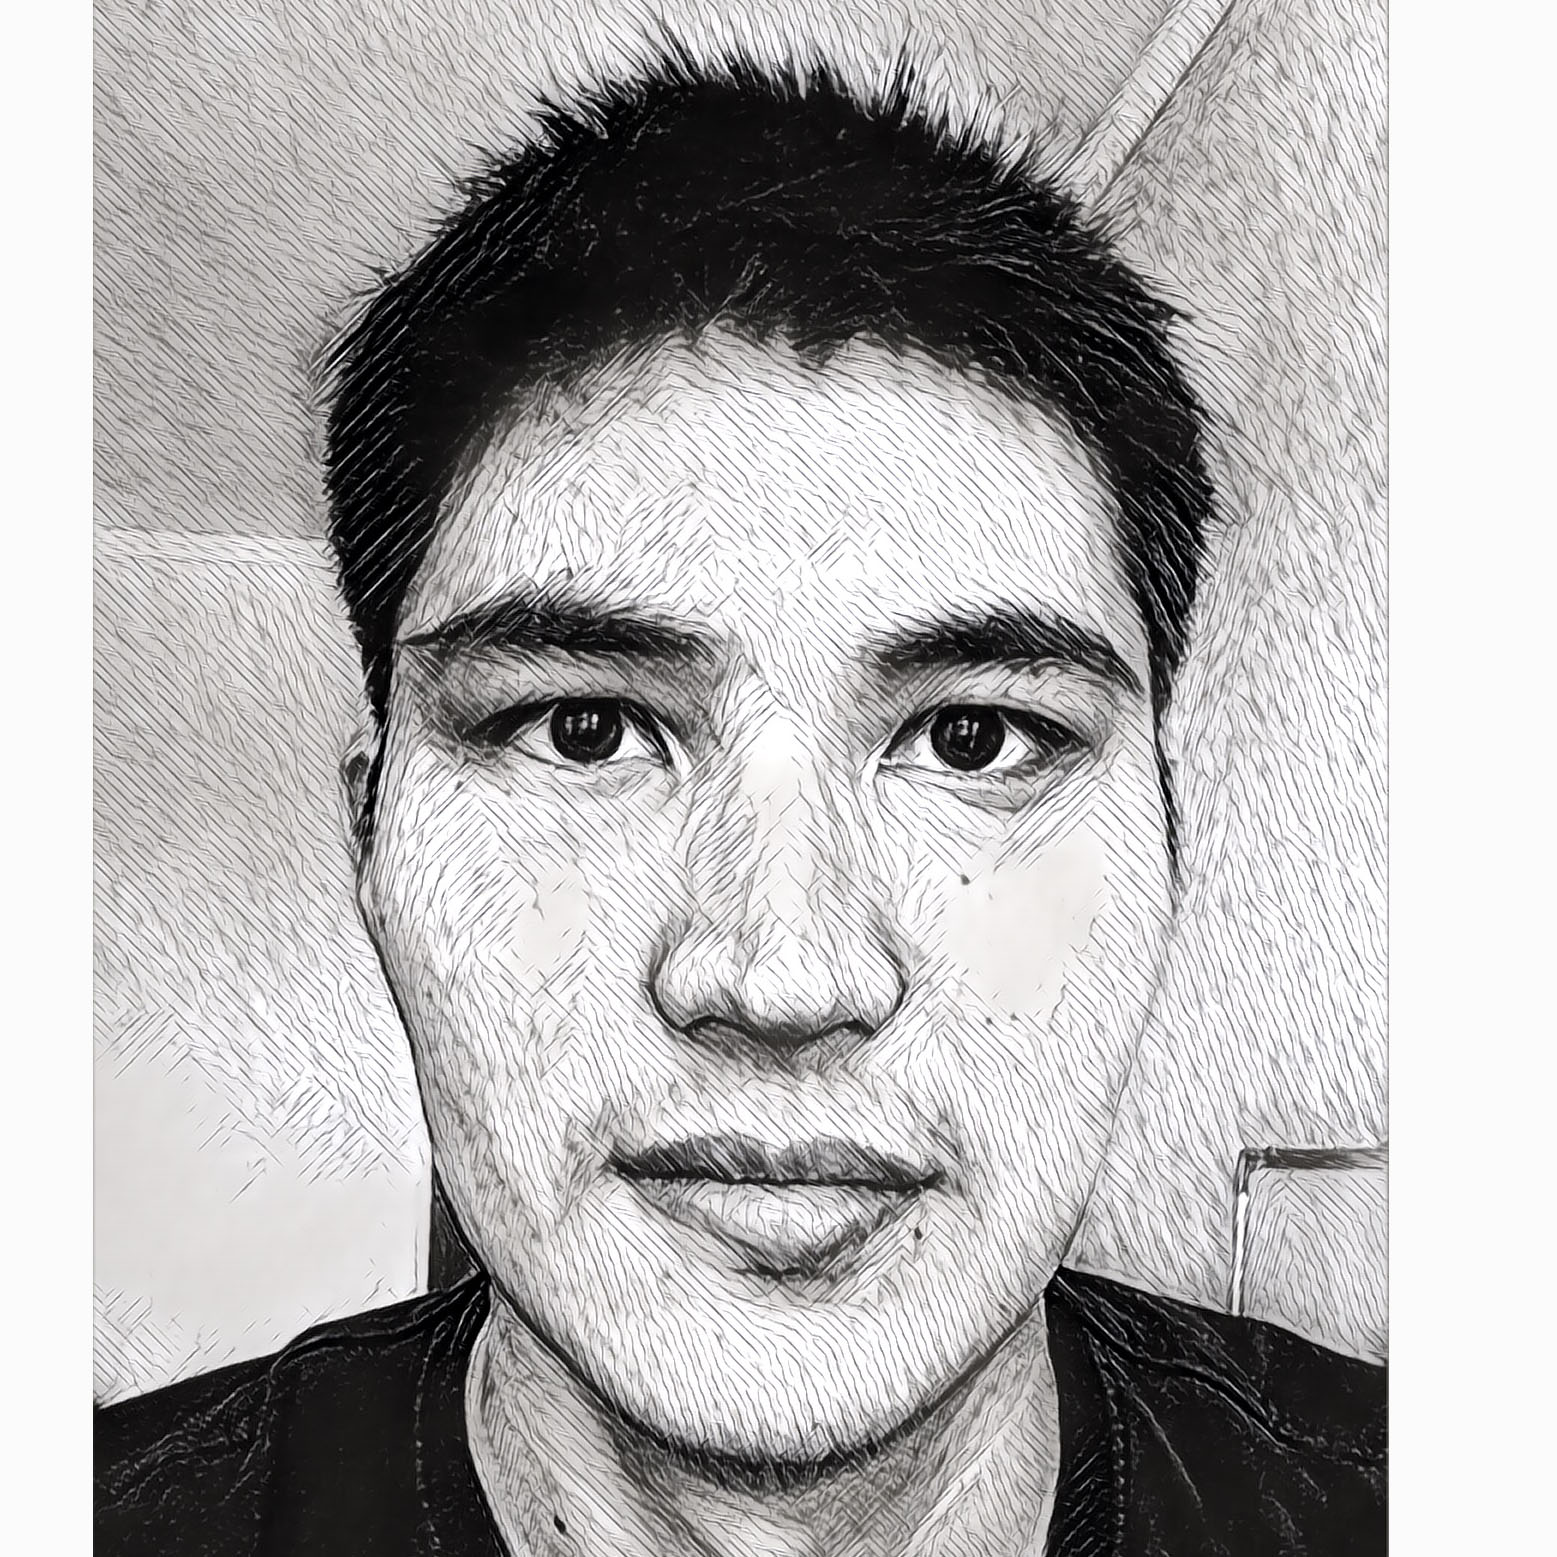
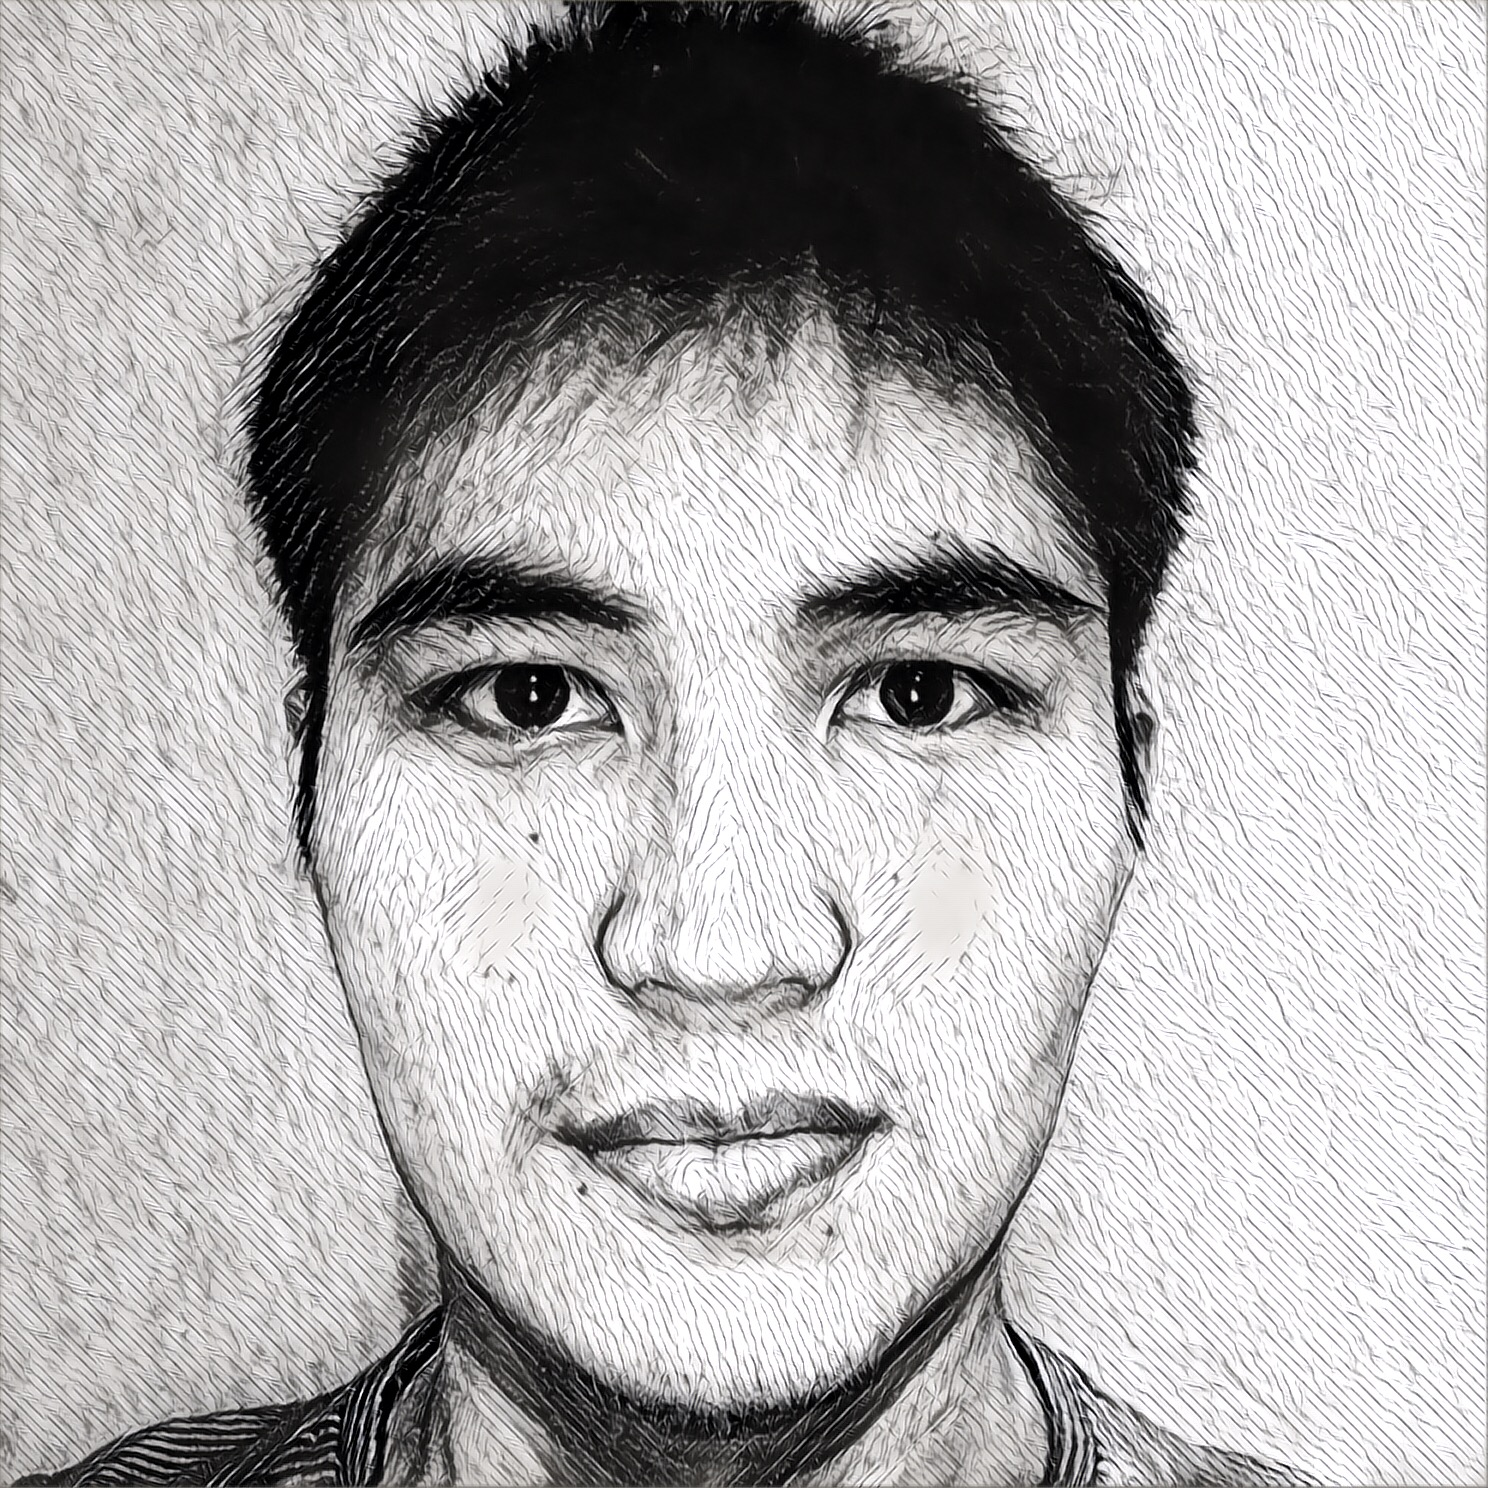
Added About section and update portret image

diff --git a/_pages/about.md b/_pages/about.md
@@ -4,3 +4,43 @@ description: Shortly About Me
 permalink: about
 ---
 
+Hi, I'm Shyngys, and I live in Ust-Kamenogorsk (Kazakhstan). Thanks for visiting my website.
+
+Currently, I am working for [Toptal][tt] company and build iOS apps and libraries using both Objective-C and Swift programming languages.
+
+Some of the projects made by me:
+
+- [MP.kz][mpkz]
+- [Balance Onay][onay]
+- [Bank Astana for Business][bafc]
+- [Today.kz][today]
+- [Dealy][dealy]
+
+A few projects to which I contributed:
+
+- [Bank Astana][baf]
+- [Asia Credit Bank][acb]
+- [Курсы валют для Казахстана][kursy]
+- [Zenge][zenge]
+- [Sajda][sajda]
+
+### Contact me
+
+Find me on [Github][github] / [Facebook][facebook] or just say `Hello` at 
+[chika.kasymov@gmail.com][email].
+
+
+[tt]: https://toptal.com
+[mpkz]: https://itunes.apple.com/kz/app/mp.kz-tendery-i-goszakupki/id788493002?mt=8
+[onay]: https://itunes.apple.com/ru/app/balans-o-aj/id1108282439?l=en&mt=8
+[bafc]: https://itunes.apple.com/kz/app/bank-astany-dla-biznesa/id1085029101?mt=8
+[today]: https://itunes.apple.com/de/app/today.kz-novosti/id1110063845?mt=8
+[dealy]: https://itunes.apple.com/us/app/dealy/id1079442840?mt=8
+[baf]: https://itunes.apple.com/kz/app/bank-astany-mobil-nyj-banking/id877622886?mt=8
+[acb]: https://itunes.apple.com/kz/app/asiacredit-bank-aziakredit/id1087699314?mt=8
+[kursy]: https://itunes.apple.com/kz/app/kursy-valut-dla-kazahstana/id718829174?mt=8
+[zenge]: https://itunes.apple.com/kg/app/zenge-order-food-bonuses-in/id1057129564?mt=8
+[sajda]: https://itunes.apple.com/kz/app/sajda-prayer-times-azan-qibla/id517254891?mt=8
+[github]: https://github.com/chika-kasymov
+[facebook]: https://www.facebook.com/shyngys.kassymov
+[email]: mailto:chika.kasymov@gmail.com

diff --git a/_pages/portfolio.md b/_pages/portfolio.md
@@ -1,8 +1,36 @@
 ---
-layout: archive
 title: "My Portfolio"
 description: My Portfolio
 permalink: portfolio
 author_profile: false
+feature_row:
+  - url: /assets/images/portfolio/bafc/screen_1.jpeg
+    image_path: /assets/images/portfolio/bafc/screen_1.jpeg
+    alt: "Screen 1"
+    title: "The Log In Screen"
+    excerpt: "This is some sample content that goes here with **Markdown** formatting."
+  - url: /assets/images/portfolio/bafc/screen_2.jpeg
+    image_path: /assets/images/portfolio/bafc/screen_2.jpeg
+    alt: "Screen 2"
+    title: "The Dashboard"
+    excerpt: "This is some sample content that goes here with **Markdown** formatting."
+  - url: /assets/images/portfolio/bafc/screen_3.jpeg
+    image_path: /assets/images/portfolio/bafc/screen_3.jpeg
+    alt: "Screen 3"
+    title: "The Account Details"
+    excerpt: "This is some sample content that goes here with **Markdown** formatting."
+  - url: /assets/images/portfolio/bafc/screen_4.jpeg
+    image_path: /assets/images/portfolio/bafc/screen_4.jpeg
+    alt: "Screen 4"
+    title: "New Document"
+    excerpt: "This is some sample content that goes here with **Markdown** formatting."
+  - url: /assets/images/portfolio/bafc/screen_5.jpeg
+    image_path: /assets/images/portfolio/bafc/screen_5.jpeg
+    alt: "Screen 5"
+    title: "Analytics"
+    excerpt: "This is some sample content that goes here with **Markdown** formatting."
 ---
 
+## Bank Astana for Business
+
+{% include feature_row %}

diff --git a/_pages/404.md b/_pages/404.md
@@ -1,0 +1,8 @@
+---
+layout: archive
+title: "404"
+description: This page not found.
+author_profile: false
+---
+
+This page not found.
